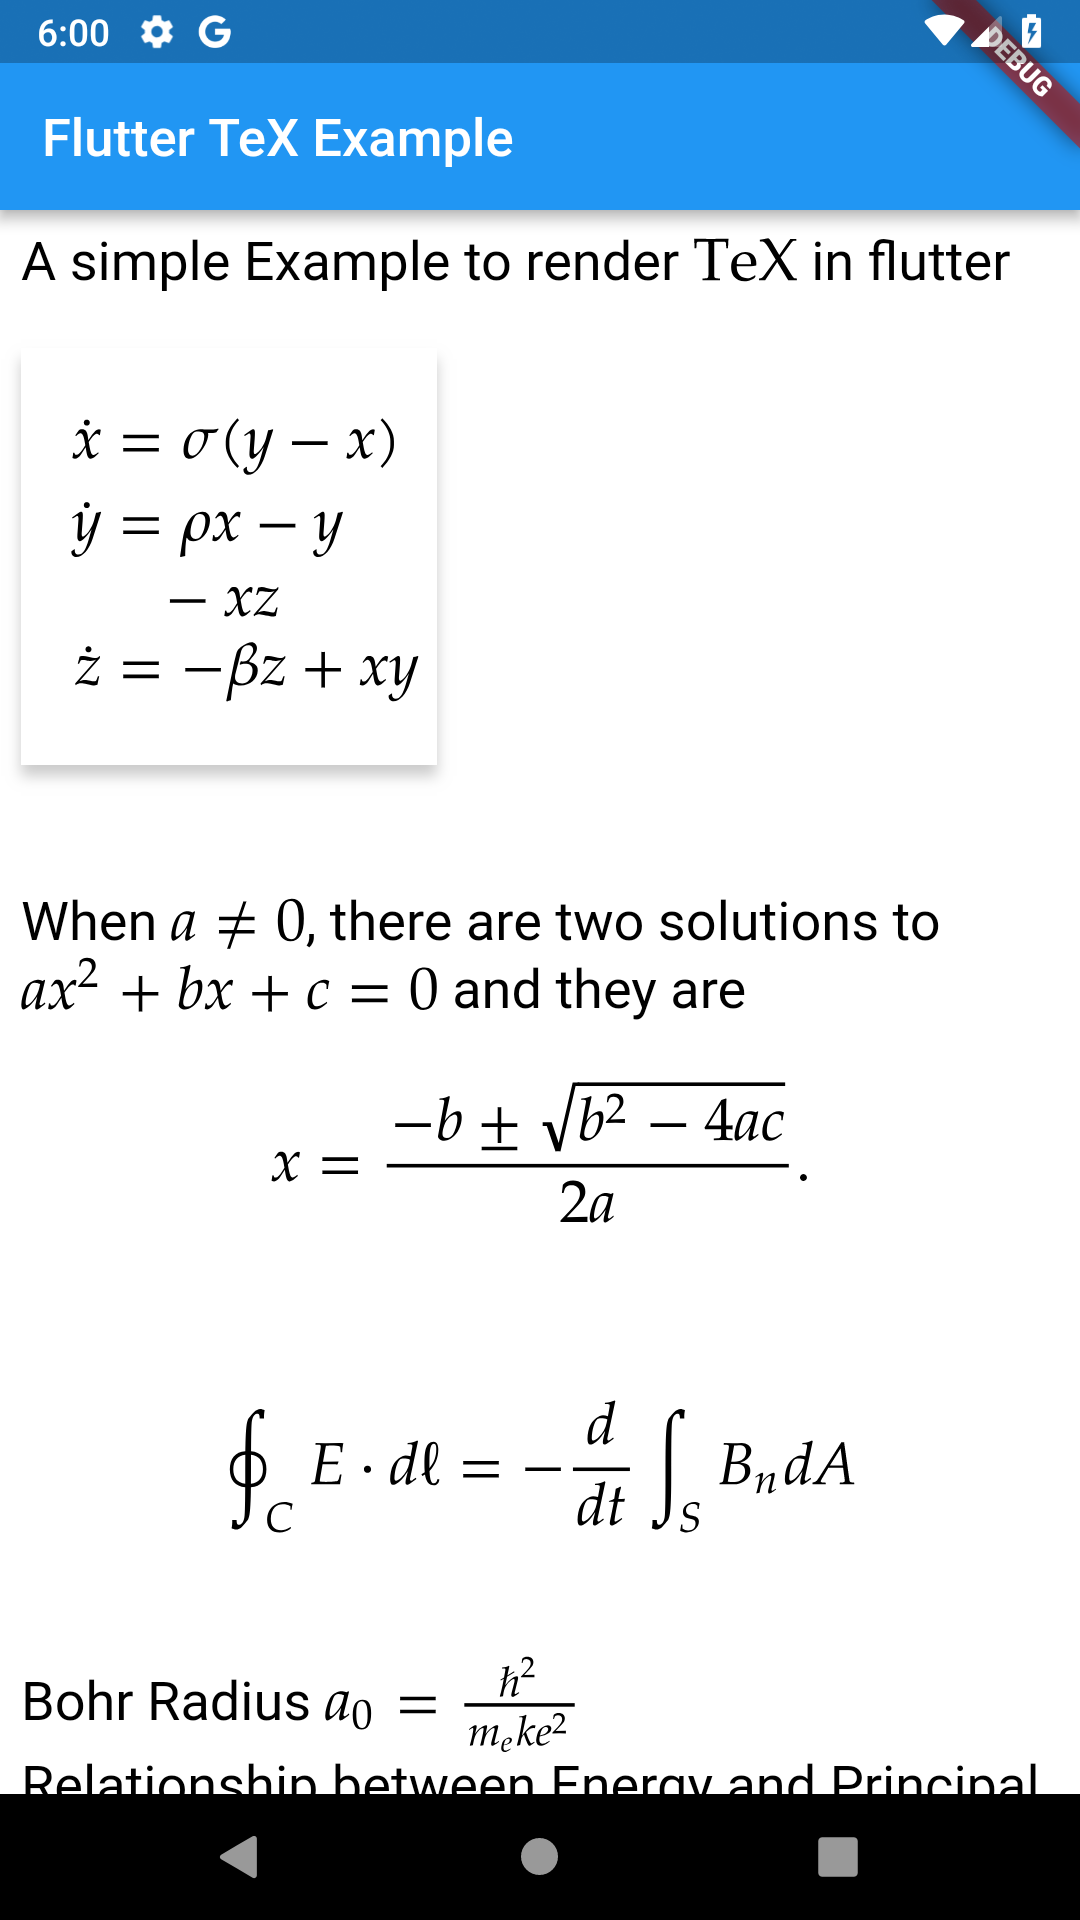
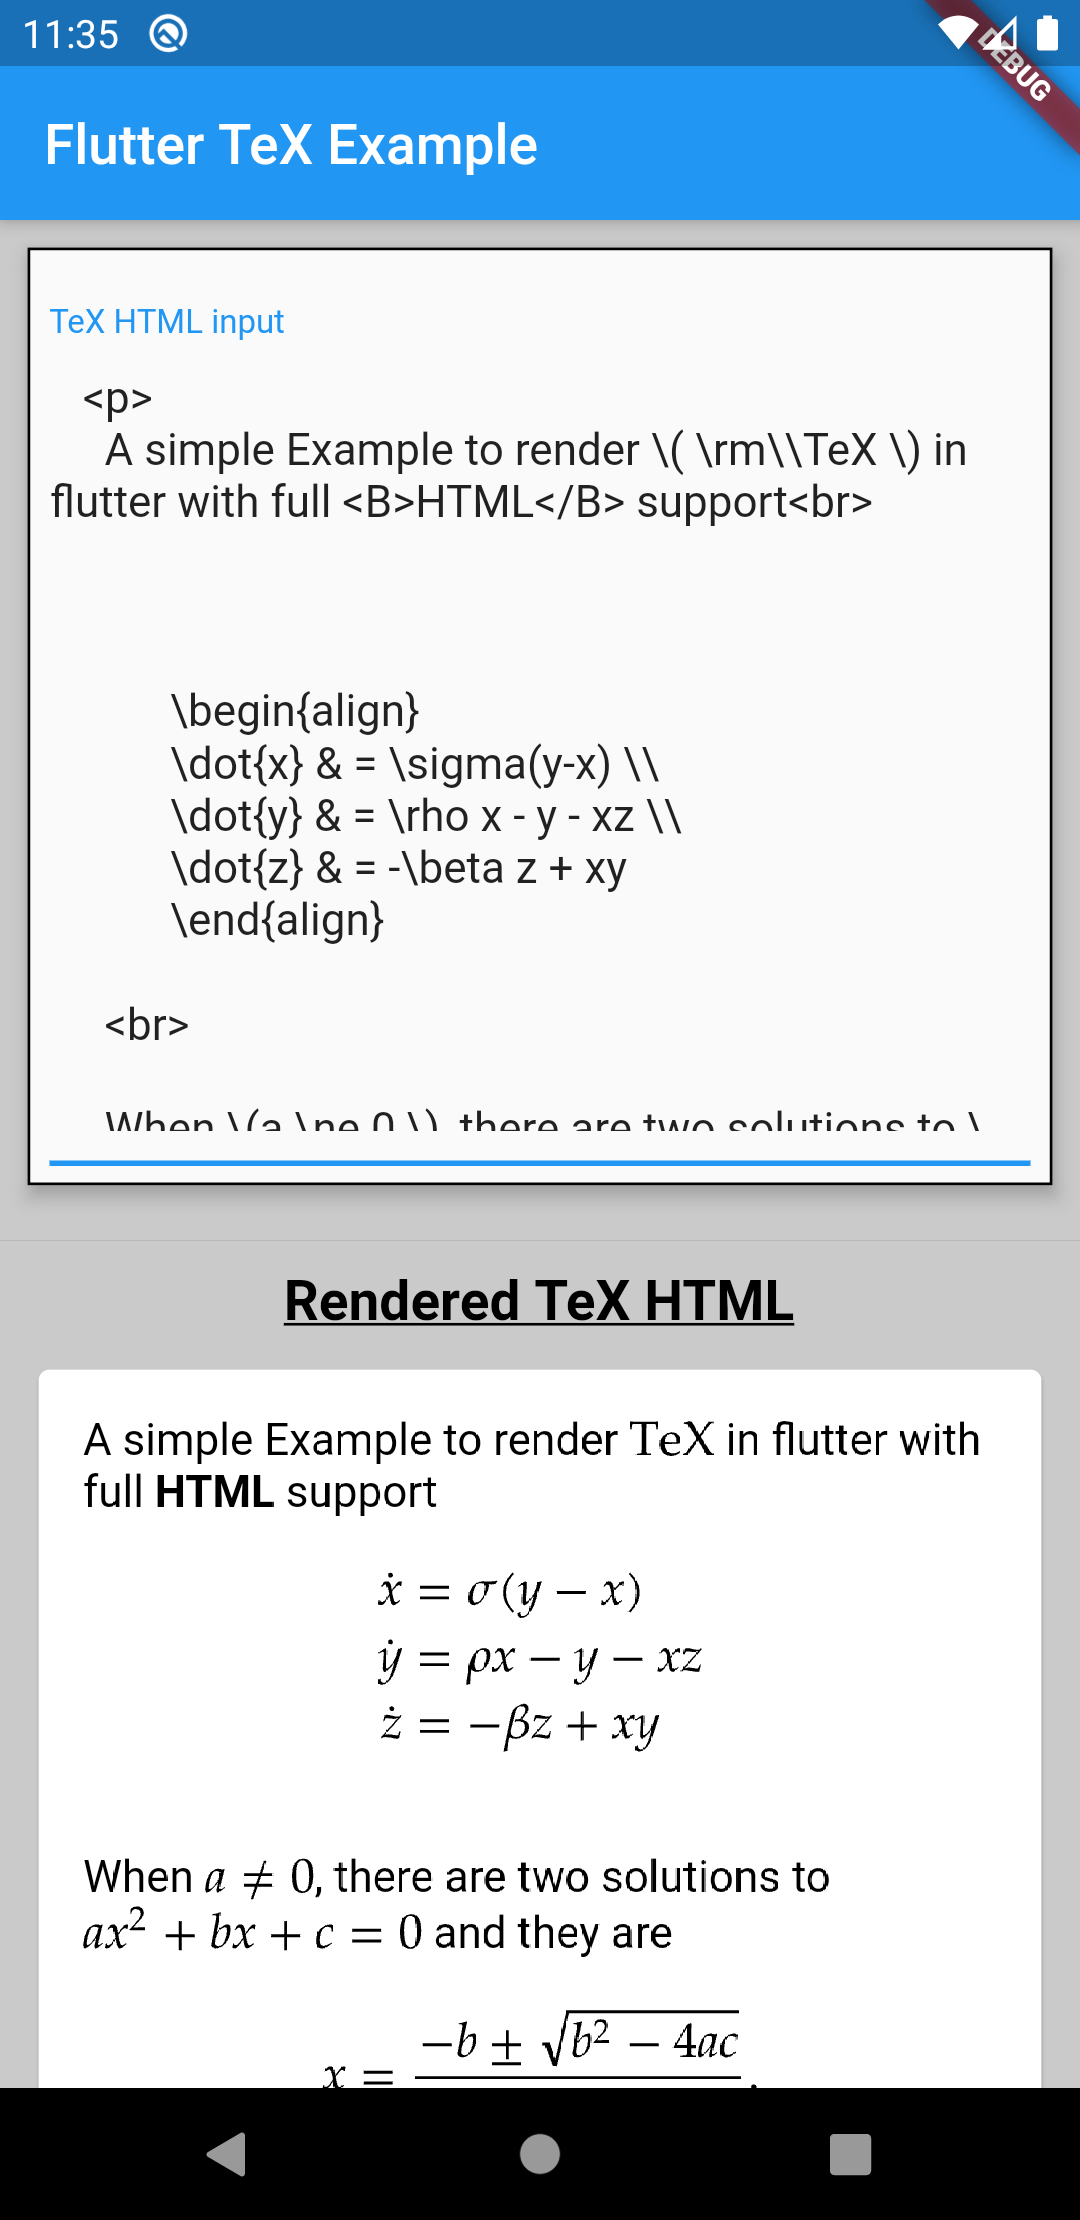
Rendering Flashes fixed.

diff --git a/example/lib/main.dart b/example/lib/main.dart
@@ -11,43 +11,64 @@ class FlutterTeX extends StatefulWidget {
 }
 
 class _FlutterTeXState extends State<FlutterTeX> {
-  String text = "Old Text (Press refresh)";
+  TextEditingController _teXHTMLEditingController =
+      new TextEditingController(text: teXHTML);
 
   @override
   Widget build(BuildContext context) {
     return MaterialApp(
       home: Scaffold(
+        backgroundColor: Colors.white70,
         appBar: AppBar(
           title: Text("Flutter TeX Example"),
-          actions: <Widget>[
-            IconButton(
-                icon: Icon(Icons.refresh),
-                onPressed: () {
-                  setState(() {
-                    text = "New Text (After refresh)";
-                  });
-                })
-          ],
         ),
         body: ListView(
+          shrinkWrap: true,
           children: <Widget>[
-            TeXView(
-              teXHTML: text,
-              onRenderFinished: (height) {
-                print("Widget Height is : $height");
-              },
-              onPageFinished: (string) {
-                print("Page Loading finished");
-              },
-            ),
-            TeXView(
-              teXHTML: teXHTML,
-              loadingWidget: Center(
-                child: Text("My Custom Loading Widget"),
+            Container(
+              margin: EdgeInsets.all(10),
+              child: Material(
+                shape: RoundedRectangleBorder(side: BorderSide()),
+                elevation: 5,
+                child: Padding(
+                  padding: const EdgeInsets.all(8.0),
+                  child: TextField(
+                    decoration: InputDecoration(labelText: "TeX HTML input"),
+                    controller: _teXHTMLEditingController,
+                    maxLines: 15,
+                    onChanged: (string) {
+                      setState(() {});
+                    },
+                  ),
+                ),
               ),
             ),
-            TeXView(
-              teXHTML: teXHTML,
+            Divider(
+              height: 20,
+            ),
+            Text(
+              "Rendered TeX HTML",
+              textAlign: TextAlign.center,
+              style: TextStyle(
+                fontSize: 20,
+                color: Colors.black,
+                fontWeight: FontWeight.bold,
+                decoration: TextDecoration.underline,
+              ),
+            ),
+            Container(
+              margin: EdgeInsets.all(10),
+              child: Card(
+                child: Padding(
+                  padding: const EdgeInsets.all(8.0),
+                  child: TeXView(
+                    teXHTML: _teXHTMLEditingController.text,
+                    loadingWidget: Center(
+                      child: Text("My Custom Loading Widget"),
+                    ),
+                  ),
+                ),
+              ),
             ),
           ],
         ),

diff --git a/lib/flutter_tex.dart b/lib/flutter_tex.dart
@@ -18,6 +18,9 @@ class TeXView extends StatefulWidget {
   @required
   final String teXHTML;
 
+  /// Fixed Height for TeXView.
+  final double height;
+
   /// Show a loading widget before rendering completes.
   final Widget loadingWidget;
 
@@ -33,6 +36,7 @@ class TeXView extends StatefulWidget {
   TeXView(
       {this.key,
       this.teXHTML,
+      this.height,
       this.loadingWidget,
       this.keepAlive,
       this.onRenderFinished,
@@ -74,7 +78,7 @@ class _TeXViewState extends State<TeXView> with AutomaticKeepAliveClientMixin {
       index: _height == 1 ? 1 : 0,
       children: <Widget>[
         SizedBox(
-          height: _height,
+          height: widget.height ?? _height,
           child: WebView(
             key: widget.key,
             onPageFinished: (message) {

diff --git a/example/README.md b/example/README.md
@@ -13,49 +13,64 @@ class FlutterTeX extends StatefulWidget {
 }
 
 class _FlutterTeXState extends State<FlutterTeX> {
-  String text = "Old Text (Press refresh)";
+  TextEditingController _teXHTMLEditingController =
+      new TextEditingController(text: teXHTML);
 
   @override
   Widget build(BuildContext context) {
     return MaterialApp(
       home: Scaffold(
+        backgroundColor: Colors.white70,
         appBar: AppBar(
           title: Text("Flutter TeX Example"),
-          actions: <Widget>[
-            IconButton(
-                icon: Icon(Icons.refresh),
-                onPressed: () {
-                  setState(() {
-                    text = "New Text (After refresh)";
-                  });
-                })
-          ],
         ),
         body: ListView(
+          shrinkWrap: true,
           children: <Widget>[
-            TeXView(
-              teXHTML: text,
-              onRenderFinished: (height) {
-                print("Height is : $height");
-              },
-              onPageFinished: (string) {
-                print("Page Loading finished");
-              },
+            Container(
+              margin: EdgeInsets.all(10),
+              child: Material(
+                shape: RoundedRectangleBorder(side: BorderSide()),
+                elevation: 5,
+                child: Padding(
+                  padding: const EdgeInsets.all(8.0),
+                  child: TextField(
+                    decoration: InputDecoration(labelText: "TeX HTML input"),
+                    controller: _teXHTMLEditingController,
+                    maxLines: 15,
+                    onChanged: (string) {
+                      setState(() {});
+                    },
+                  ),
+                ),
+              ),
             ),
-            TeXView(
-              teXHTML: teXHTML,
+            Divider(
+              height: 20,
             ),
-            TeXView(
-              teXHTML: teXHTML,
+            Text(
+              "Rendered TeX HTML",
+              textAlign: TextAlign.center,
+              style: TextStyle(
+                fontSize: 20,
+                color: Colors.black,
+                fontWeight: FontWeight.bold,
+                decoration: TextDecoration.underline,
+              ),
             ),
-            TeXView(
-              teXHTML: teXHTML,
-            ),
-            TeXView(
-              teXHTML: teXHTML,
-            ),
-            TeXView(
-              teXHTML: teXHTML,
+            Container(
+              margin: EdgeInsets.all(10),
+              child: Card(
+                child: Padding(
+                  padding: const EdgeInsets.all(8.0),
+                  child: TeXView(
+                    teXHTML: _teXHTMLEditingController.text,
+                    loadingWidget: Center(
+                      child: Text("My Custom Loading Widget"),
+                    ),
+                  ),
+                ),
+              ),
             ),
           ],
         ),
@@ -65,7 +80,7 @@ class _FlutterTeXState extends State<FlutterTeX> {
 }
 
 String teXHTML = r"""
-
+     
      <style>
        .card {
          box-shadow: 0 4px 8px 0 rgba(0, 0, 0, 0.2);
@@ -141,6 +156,7 @@ String teXHTML = r"""
      </div>
 
    """;
+
 
 
 ```

diff --git a/README.md b/README.md
@@ -26,7 +26,7 @@ This package mainly depends on [webview_flutter](https://pub.dartlang.org/packag
 
 ```yaml
 dependencies:
-  flutter_tex: ^1.0.12
+  flutter_tex: ^1.0.13
 ```
 
 **2:** You can install packages from the command line:

diff --git a/CHANGELOG.md b/CHANGELOG.md
@@ -1,5 +1,10 @@
 # Change Logs
 
+
+## [1.0.13]
+- New Example added.
+- Now we you can set custom height of TeXView.
+
 ## [1.0.12]
 - Performance optimizations.
 - Rendering Flashes fixed.
